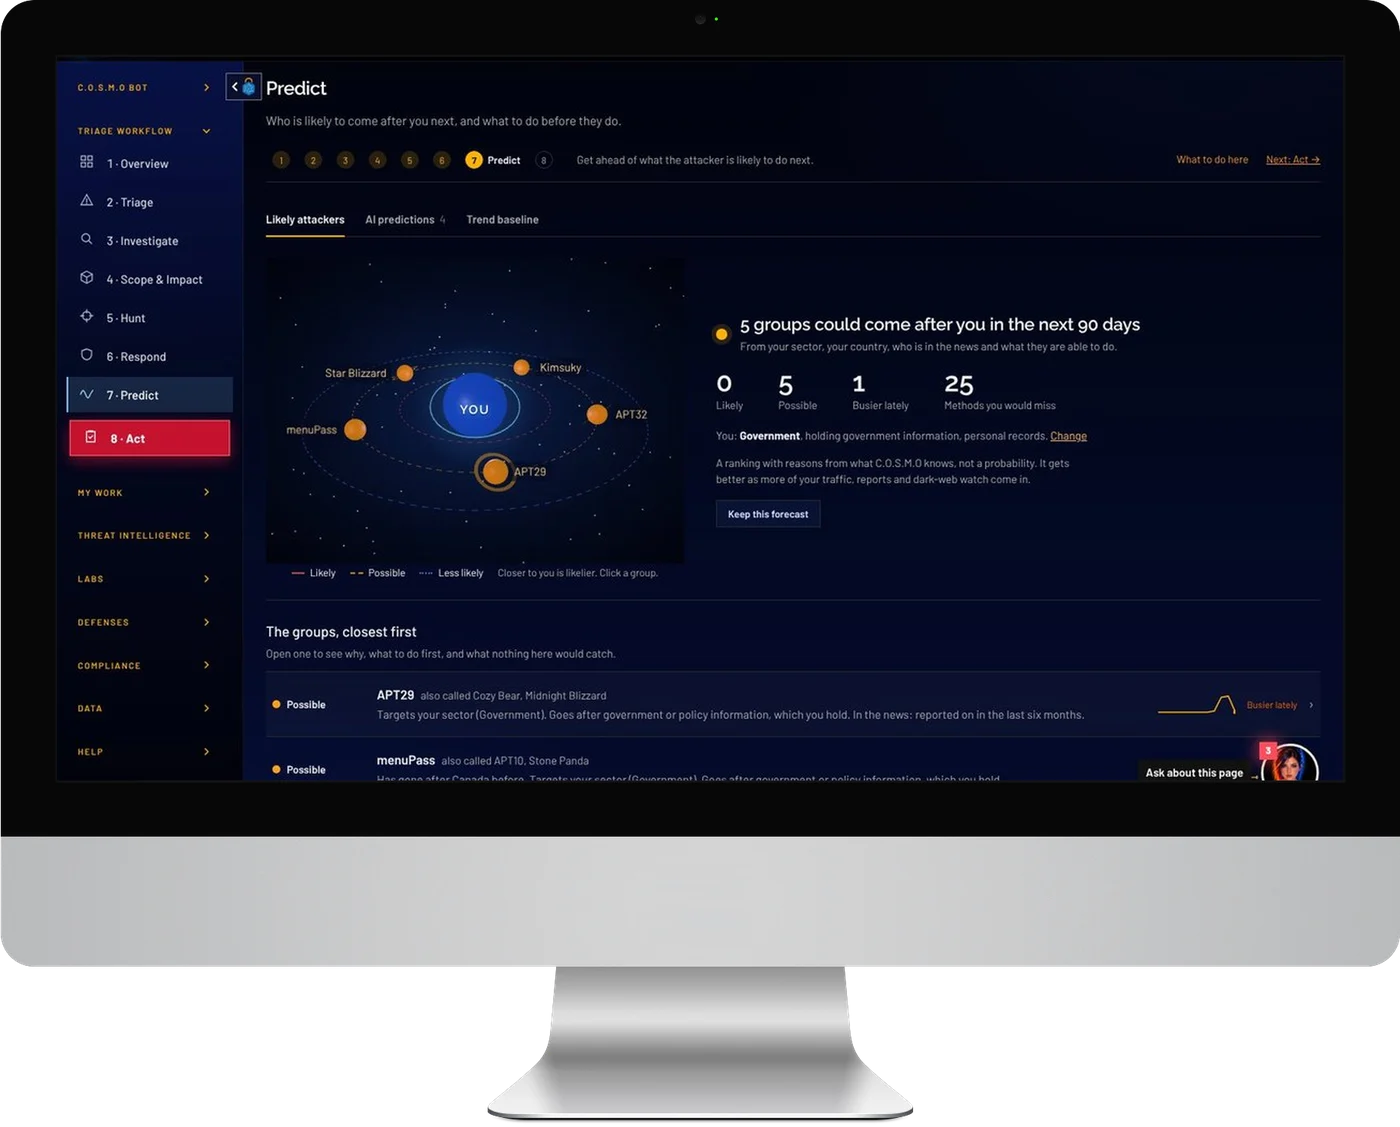
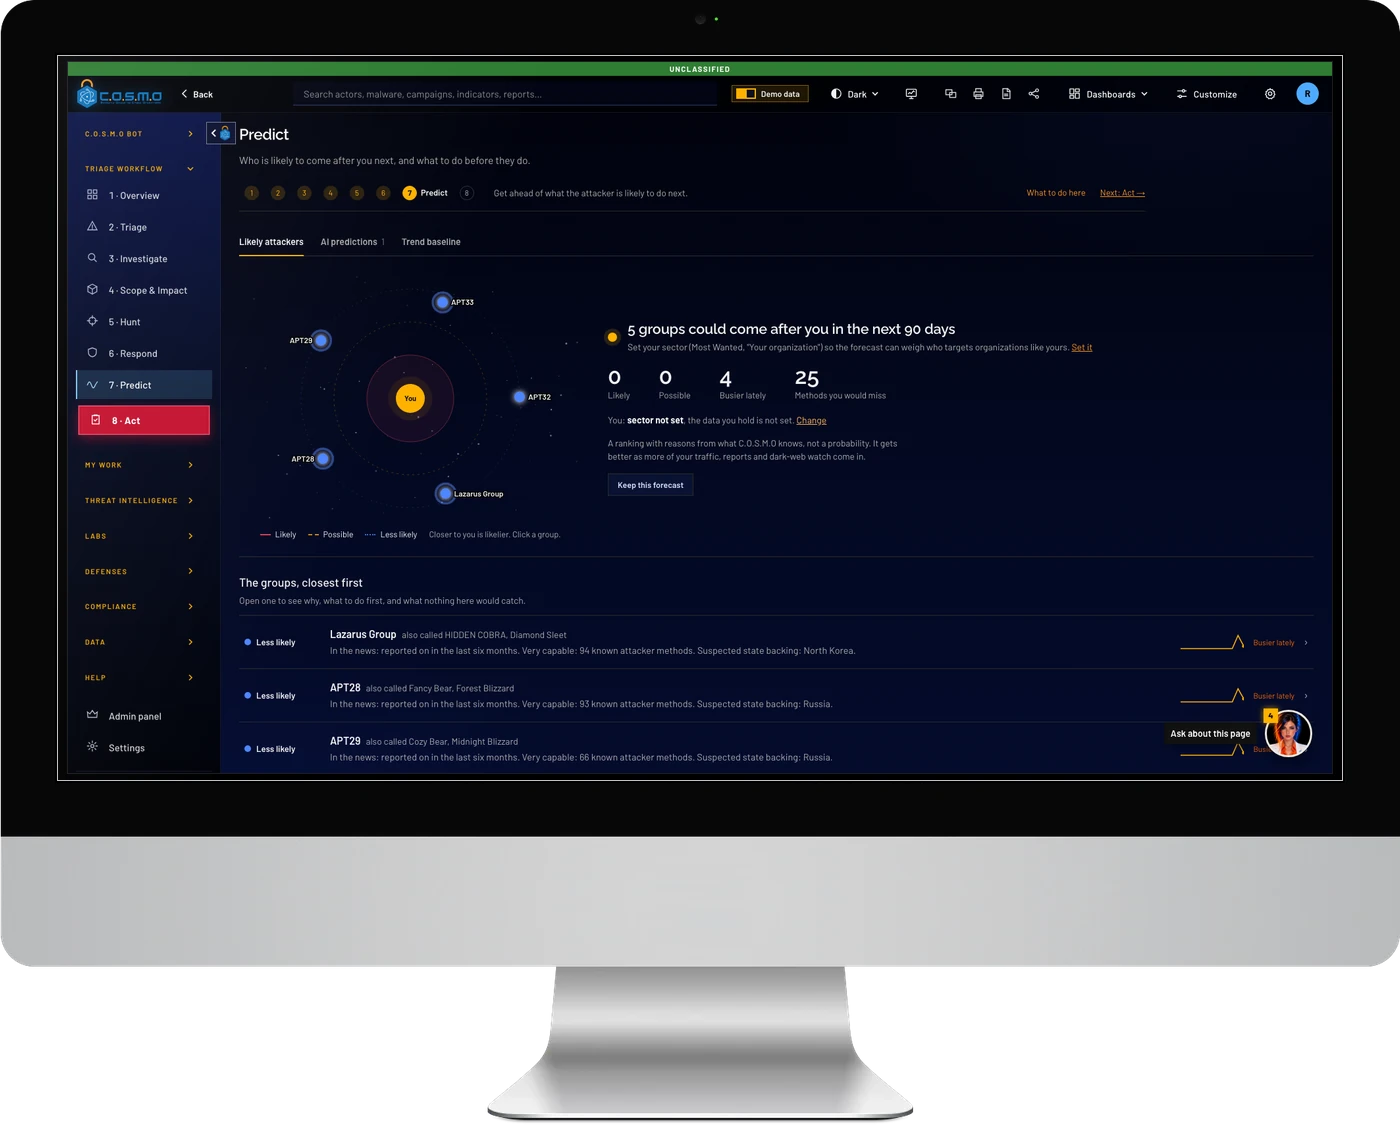
C.O.S.M.O computers rebuilt from the real app at each screen's exact ratio (full menu, top bar and bot visible); laptop no longer covers the iMac screen; cache tags

diff --git a/index.html b/index.html
@@ -9,7 +9,7 @@
 <link rel="icon" href="assets/img/favicon.svg" type="image/svg+xml">
 <link rel="preload" href="assets/fonts/barlow-600.woff2" as="font" type="font/woff2" crossorigin>
 <link rel="preload" href="assets/fonts/barlow-800.woff2" as="font" type="font/woff2" crossorigin>
-<link rel="stylesheet" href="css/site.css?v=20261103c">
+<link rel="stylesheet" href="css/site.css?v=20261103d">
 <script>(function(d){d.className+=" js";try{if(!matchMedia("(prefers-reduced-motion: reduce)").matches&&"IntersectionObserver" in window)d.className+=" motion"}catch(e){}})(document.documentElement);</script>
 </head>
 <body>
@@ -87,7 +87,7 @@
             <p class="lead">The AI-driven cyber intelligence platform. It triages every alert, takes malware apart, assigns the work and writes the response playbooks. Your analysts approve.</p>
             <div class="btn-row"><a class="btn btn-primary" href="https://cosmoplatform.ai">Visit cosmoplatform.ai <svg class="" aria-hidden="true" focusable="false"><use href="#i-external"/></svg></a><a class="btn btn-outline" href="products.html">Our products</a></div>
           </div>
-          <div class="visual"><div class="duo"><figure class="device monitor mocked"><img src="assets/img/mock/cosmo-triage-imac.webp" loading="lazy" alt="C.O.S.M.O Triage screen ranking alerts"></figure><figure class="device laptop mocked"><img src="assets/img/mock/cosmo-overview-macbook.webp" loading="lazy" alt="C.O.S.M.O Overview screen with live threat map"></figure></div></div>
+          <div class="visual"><div class="duo"><figure class="device monitor mocked"><img src="assets/img/mock/cosmo-triage-imac.webp?v=20261103c" loading="lazy" alt="C.O.S.M.O Triage screen ranking alerts"></figure><figure class="device laptop mocked"><img src="assets/img/mock/cosmo-overview-macbook.webp?v=20261103c" loading="lazy" alt="C.O.S.M.O Overview screen with live threat map"></figure></div></div>
         </div>
       </div>
     </div>
@@ -231,7 +231,7 @@
           <ul class="checks"><li><svg class="" aria-hidden="true" focusable="false"><use href="#i-arrow"/></svg>Triages the whole alert queue for you: decides what is real, what can be closed and what needs a closer check</li><li><svg class="" aria-hidden="true" focusable="false"><use href="#i-arrow"/></svg>Assigns the work automatically: the right team and the right person, each with a ready-made work pack</li><li><svg class="" aria-hidden="true" focusable="false"><use href="#i-arrow"/></svg>Builds rapid-response playbooks and the fixes teams paste straight in: firewall blocks, detection rules, Splunk and Defender searches</li><li><svg class="" aria-hidden="true" focusable="false"><use href="#i-arrow"/></svg>Takes malware apart with a council of five AI analysts and writes the rules that catch it</li><li><svg class="" aria-hidden="true" focusable="false"><use href="#i-arrow"/></svg>Shows the reasons behind every score, and nothing changes until a person approves</li></ul>
           <div class="btn-row"><a class="btn btn-primary" href="https://cosmoplatform.ai">cosmoplatform.ai <svg class="" aria-hidden="true" focusable="false"><use href="#i-external"/></svg></a><a class="btn btn-outline" href="products.html">Product details</a></div>
         </div>
-        <div class="tilt-in"><div class="duo"><figure class="device monitor mocked"><img src="assets/img/mock/cosmo-predict-imac.webp" loading="lazy" alt="C.O.S.M.O Predict screen listing the groups most likely to come next"></figure><figure class="device laptop mocked"><img src="assets/img/mock/cosmo-overview-macbook.webp" loading="lazy" alt="C.O.S.M.O Overview screen with live threat map and workflow"></figure></div></div>
+        <div class="tilt-in"><div class="duo"><figure class="device monitor mocked"><img src="assets/img/mock/cosmo-predict-imac.webp?v=20261103c" loading="lazy" alt="C.O.S.M.O Predict screen listing the groups most likely to come next"></figure><figure class="device laptop mocked"><img src="assets/img/mock/cosmo-overview-macbook.webp?v=20261103c" loading="lazy" alt="C.O.S.M.O Overview screen with live threat map and workflow"></figure></div></div>
       </div>
     </div>
   </section>

diff --git a/products.html b/products.html
@@ -9,7 +9,7 @@
 <link rel="icon" href="assets/img/favicon.svg" type="image/svg+xml">
 <link rel="preload" href="assets/fonts/barlow-600.woff2" as="font" type="font/woff2" crossorigin>
 <link rel="preload" href="assets/fonts/barlow-800.woff2" as="font" type="font/woff2" crossorigin>
-<link rel="stylesheet" href="css/site.css?v=20261103c">
+<link rel="stylesheet" href="css/site.css?v=20261103d">
 <script>(function(d){d.className+=" js";try{if(!matchMedia("(prefers-reduced-motion: reduce)").matches&&"IntersectionObserver" in window)d.className+=" motion"}catch(e){}})(document.documentElement);</script>
 </head>
 <body>
@@ -88,7 +88,7 @@
         <div class="btn-row"><a class="btn btn-primary" href="https://cosmoplatform.ai">Visit cosmoplatform.ai <svg class="" aria-hidden="true" focusable="false"><use href="#i-external"/></svg></a><a class="btn btn-outline" href="contact.html">Ask for a demonstration</a></div>
       </div>
       <div class="pv">
-      <div class="tilt-in light-bg"><div class="duo"><figure class="device monitor mocked"><img src="assets/img/mock/cosmo-triage-imac.webp" loading="lazy" alt="C.O.S.M.O Triage screen"></figure><figure class="device laptop mocked"><img src="assets/img/mock/cosmo-overview-macbook.webp" loading="lazy" alt="C.O.S.M.O Overview screen with live threat map"></figure></div></div>
+      <div class="tilt-in light-bg"><div class="duo"><figure class="device monitor mocked"><img src="assets/img/mock/cosmo-triage-imac.webp?v=20261103c" loading="lazy" alt="C.O.S.M.O Triage screen"></figure><figure class="device laptop mocked"><img src="assets/img/mock/cosmo-overview-macbook.webp?v=20261103c" loading="lazy" alt="C.O.S.M.O Overview screen with live threat map"></figure></div></div>
     <div class="gcaps on-light" id="cosmo-capabilities">
       <div class="gcaps-head reveal">
         <p class="eyebrow">Platform capabilities</p>

diff --git a/css/site.css b/css/site.css
@@ -205,9 +205,9 @@ html:not(.js) .slider-ui { display: none; }
 .monitor .neck { position: absolute; left: 50%; bottom: 3%; width: 12%; height: 13%; transform: translateX(-50%); background: linear-gradient(90deg, #8a9095, #dfe2e4 50%, #8a9095); clip-path: polygon(20% 0, 80% 0, 100% 100%, 0 100%); }
 .monitor .foot { position: absolute; left: 50%; bottom: 0; width: 32%; height: 3.4%; transform: translateX(-50%); border-radius: 0; background: linear-gradient(180deg, #eef0f1, #9aa0a5); }
 .monitor::after { content: ""; position: absolute; left: 20%; right: 20%; bottom: -2%; height: 6%; background: radial-gradient(50% 50% at 50% 50%, rgba(0,0,0,.45), transparent 72%); filter: blur(5px); z-index: -1; }
-.duo { position: relative; padding-bottom: 6%; }
+.duo { position: relative; padding-bottom: 12%; }
 .duo .monitor { width: 84%; margin: 0 0 0 auto; }
-.duo .laptop { position: absolute; left: 0; bottom: 0; width: 58%; z-index: 2; }
+.duo .laptop { position: absolute; left: 0; bottom: 0; width: 50%; z-index: 2; }
 
 /* ---------- Credentials band ---------- */
 .creds { position: relative; z-index: 2; background: #fff; border-bottom: 1px solid var(--line); }

diff --git a/capabilities.html b/capabilities.html
@@ -9,7 +9,7 @@
 <link rel="icon" href="assets/img/favicon.svg" type="image/svg+xml">
 <link rel="preload" href="assets/fonts/barlow-600.woff2" as="font" type="font/woff2" crossorigin>
 <link rel="preload" href="assets/fonts/barlow-800.woff2" as="font" type="font/woff2" crossorigin>
-<link rel="stylesheet" href="css/site.css?v=20261103c">
+<link rel="stylesheet" href="css/site.css?v=20261103d">
 <script>(function(d){d.className+=" js";try{if(!matchMedia("(prefers-reduced-motion: reduce)").matches&&"IntersectionObserver" in window)d.className+=" motion"}catch(e){}})(document.documentElement);</script>
 </head>
 <body class="statement-page">

diff --git a/404.html b/404.html
@@ -9,7 +9,7 @@
 <link rel="icon" href="/assets/img/favicon.svg" type="image/svg+xml">
 <link rel="preload" href="/assets/fonts/barlow-600.woff2" as="font" type="font/woff2" crossorigin>
 <link rel="preload" href="/assets/fonts/barlow-800.woff2" as="font" type="font/woff2" crossorigin>
-<link rel="stylesheet" href="/css/site.css?v=20261103c">
+<link rel="stylesheet" href="/css/site.css?v=20261103d">
 <script>(function(d){d.className+=" js";try{if(!matchMedia("(prefers-reduced-motion: reduce)").matches&&"IntersectionObserver" in window)d.className+=" motion"}catch(e){}})(document.documentElement);</script>
 </head>
 <body>

diff --git a/about.html b/about.html
@@ -9,7 +9,7 @@
 <link rel="icon" href="assets/img/favicon.svg" type="image/svg+xml">
 <link rel="preload" href="assets/fonts/barlow-600.woff2" as="font" type="font/woff2" crossorigin>
 <link rel="preload" href="assets/fonts/barlow-800.woff2" as="font" type="font/woff2" crossorigin>
-<link rel="stylesheet" href="css/site.css?v=20261103c">
+<link rel="stylesheet" href="css/site.css?v=20261103d">
 <script>(function(d){d.className+=" js";try{if(!matchMedia("(prefers-reduced-motion: reduce)").matches&&"IntersectionObserver" in window)d.className+=" motion"}catch(e){}})(document.documentElement);</script>
 </head>
 <body>

diff --git a/contact.html b/contact.html
@@ -9,7 +9,7 @@
 <link rel="icon" href="assets/img/favicon.svg" type="image/svg+xml">
 <link rel="preload" href="assets/fonts/barlow-600.woff2" as="font" type="font/woff2" crossorigin>
 <link rel="preload" href="assets/fonts/barlow-800.woff2" as="font" type="font/woff2" crossorigin>
-<link rel="stylesheet" href="css/site.css?v=20261103c">
+<link rel="stylesheet" href="css/site.css?v=20261103d">
 <script>(function(d){d.className+=" js";try{if(!matchMedia("(prefers-reduced-motion: reduce)").matches&&"IntersectionObserver" in window)d.className+=" motion"}catch(e){}})(document.documentElement);</script>
 </head>
 <body>

diff --git a/employee-benefits.html b/employee-benefits.html
@@ -9,7 +9,7 @@
 <link rel="icon" href="assets/img/favicon.svg" type="image/svg+xml">
 <link rel="preload" href="assets/fonts/barlow-600.woff2" as="font" type="font/woff2" crossorigin>
 <link rel="preload" href="assets/fonts/barlow-800.woff2" as="font" type="font/woff2" crossorigin>
-<link rel="stylesheet" href="css/site.css?v=20261103c">
+<link rel="stylesheet" href="css/site.css?v=20261103d">
 <script>(function(d){d.className+=" js";try{if(!matchMedia("(prefers-reduced-motion: reduce)").matches&&"IntersectionObserver" in window)d.className+=" motion"}catch(e){}})(document.documentElement);</script>
 </head>
 <body>

diff --git a/employee-portal.html b/employee-portal.html
@@ -9,7 +9,7 @@
 <link rel="icon" href="assets/img/favicon.svg" type="image/svg+xml">
 <link rel="preload" href="assets/fonts/barlow-600.woff2" as="font" type="font/woff2" crossorigin>
 <link rel="preload" href="assets/fonts/barlow-800.woff2" as="font" type="font/woff2" crossorigin>
-<link rel="stylesheet" href="css/site.css?v=20261103c">
+<link rel="stylesheet" href="css/site.css?v=20261103d">
 <script>(function(d){d.className+=" js";try{if(!matchMedia("(prefers-reduced-motion: reduce)").matches&&"IntersectionObserver" in window)d.className+=" motion"}catch(e){}})(document.documentElement);</script>
 </head>
 <body>

diff --git a/services.html b/services.html
@@ -9,7 +9,7 @@
 <link rel="icon" href="assets/img/favicon.svg" type="image/svg+xml">
 <link rel="preload" href="assets/fonts/barlow-600.woff2" as="font" type="font/woff2" crossorigin>
 <link rel="preload" href="assets/fonts/barlow-800.woff2" as="font" type="font/woff2" crossorigin>
-<link rel="stylesheet" href="css/site.css?v=20261103c">
+<link rel="stylesheet" href="css/site.css?v=20261103d">
 <script>(function(d){d.className+=" js";try{if(!matchMedia("(prefers-reduced-motion: reduce)").matches&&"IntersectionObserver" in window)d.className+=" motion"}catch(e){}})(document.documentElement);</script>
 </head>
 <body>
